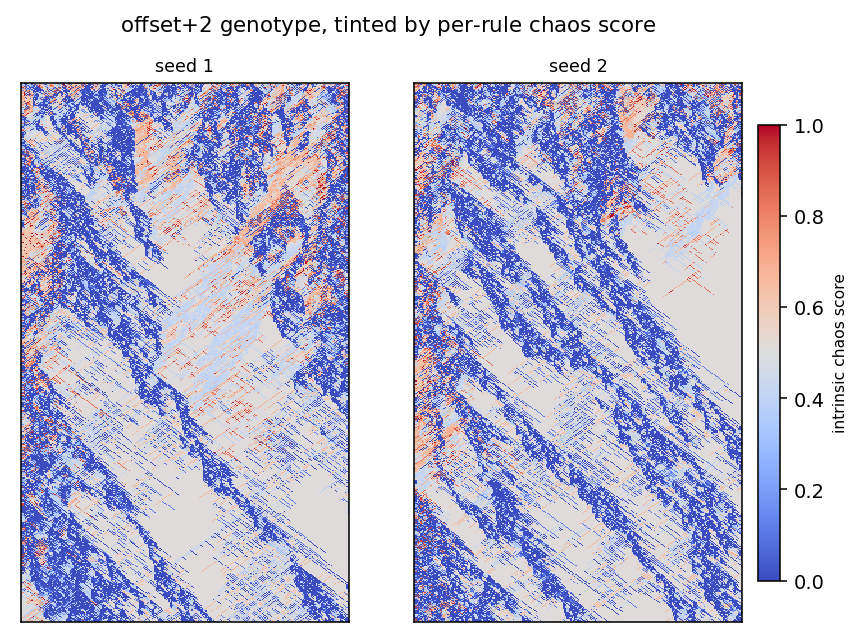
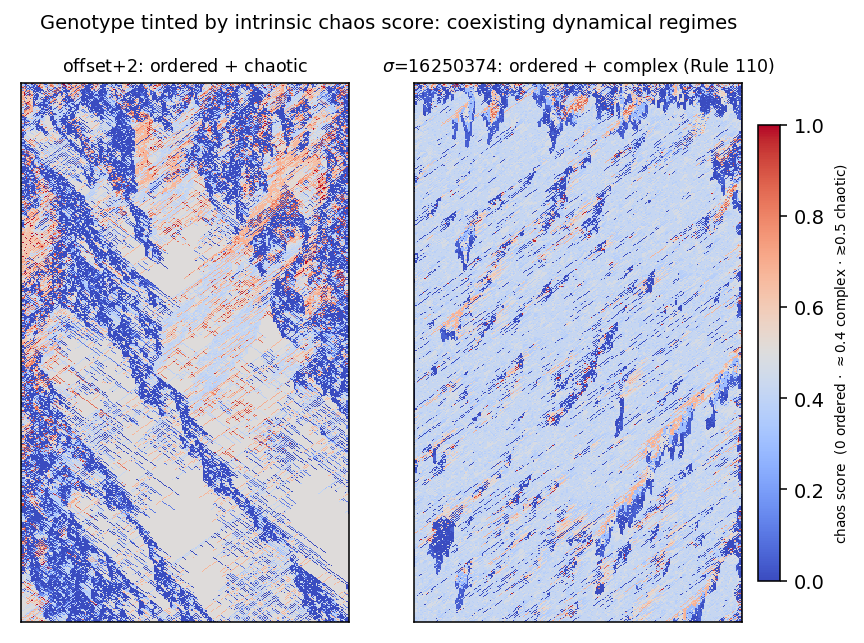
paper: refine tint to three regimes (ordered/complex/chaotic), per Joe
Joe's catch: the coexistence isn't always ordered+chaotic. sigma=16250374 is
dominated by the COMPLEX Rule 110 (~48% of cells; 84% complex-band, only 7%
chaotic) -- ordered+complex -- whereas offset+2 is genuinely ordered+chaotic
(40% chaotic). fig:tint now shows both operators; caption + Discussion name three
regimes and note the coexisting pair is operator-dependent, tying sigma=16250374
to the paper's existing Rule-110 narrative (Conclusion). Honest that the activity
score orders but does not cleanly separate complex from chaotic. Builds clean.

diff --git a/holes/tech-notes/paper/draft2.tex b/holes/tech-notes/paper/draft2.tex
@@ -601,10 +601,14 @@ but by each rule's \emph{intrinsic dynamical character}: a scalar chaos score
 obtained by running that rule alone as an elementary CA and measuring its
 asymptotic activity (ordered rules score $0$, chaotic rules approach $1/2$, and
 the complex rules---including Rule~$110$---fall between). Under this tint
-(Figure~\ref{fig:tint}) the offset $+2$ field resolves into coexisting ordered
-and chaotic domains separated by a definite boundary rather than a uniform
-turbulence. Thinning that boundary to a filament skeleton recovers the
-``separating curve'' directly from the data.
+(Figure~\ref{fig:tint}) the field resolves into coexisting domains of distinct
+dynamical character---ordered, complex, and chaotic---separated by definite
+boundaries rather than a uniform turbulence. Which regimes coexist depends on
+the operator: offset $+2$ pairs ordered with chaotic, whereas
+$\sigma = 16250374$ pairs ordered with the complex Rule~110 that comes to
+dominate its field (\secref{sec:conclusion}). Thinning the boundary between
+ordered and active regions to a filament skeleton recovers the ``separating
+curve'' directly from the data.
 
 The interface is not a clean line but a \emph{fractal}. Box-counting yields a
 scale-free dimension (clean power laws, $R^2 > 0.99$) of $D \approx 1.5$ for
@@ -648,11 +652,17 @@ edge-of-chaos lines of these diagrams is, we think, a paper of its own.
 \begin{figure}[tb]
 \centering
 \includegraphics[width=0.68\linewidth]{figures/eoc_tint.png}
-\caption{\textbf{The genotype as an order/chaos map.} The offset $+2$ genotype
-field (two representative seeds, fixed-boundary variant) tinted by each rule's
-intrinsic chaos score---its asymptotic activity as an isolated elementary CA
-(blue $=$ ordered, red $=$ chaotic, pale $=$ complex, including Rule~110).
-Ordered and chaotic domains coexist, separated by a definite interface.}
+\caption{\textbf{The genotype as a map of dynamical regimes.} Genotype fields
+(fixed-boundary variant) tinted by each rule's intrinsic chaos score---its
+asymptotic activity as an isolated elementary CA (blue $=$ ordered near $0$,
+pale $\approx$ complex near $0.4$, red $=$ chaotic near $0.5$ and above). The
+field resolves into coexisting regimes, and which active regime pairs with the
+ordered background depends on the operator: offset $+2$ mixes ordered and
+genuinely \emph{chaotic} rules ($\approx 40\%$ chaotic at this seed), whereas
+$\sigma = 16250374$ is dominated by the \emph{complex} Rule~110
+($\approx 48\%$; Figure~\ref{fig:regimes}) and pairs ordered with complex. The
+activity score orders the regimes but does not by itself separate complex from
+chaotic, a known-hard distinction.}
 \label{fig:tint}
 \end{figure}
 
